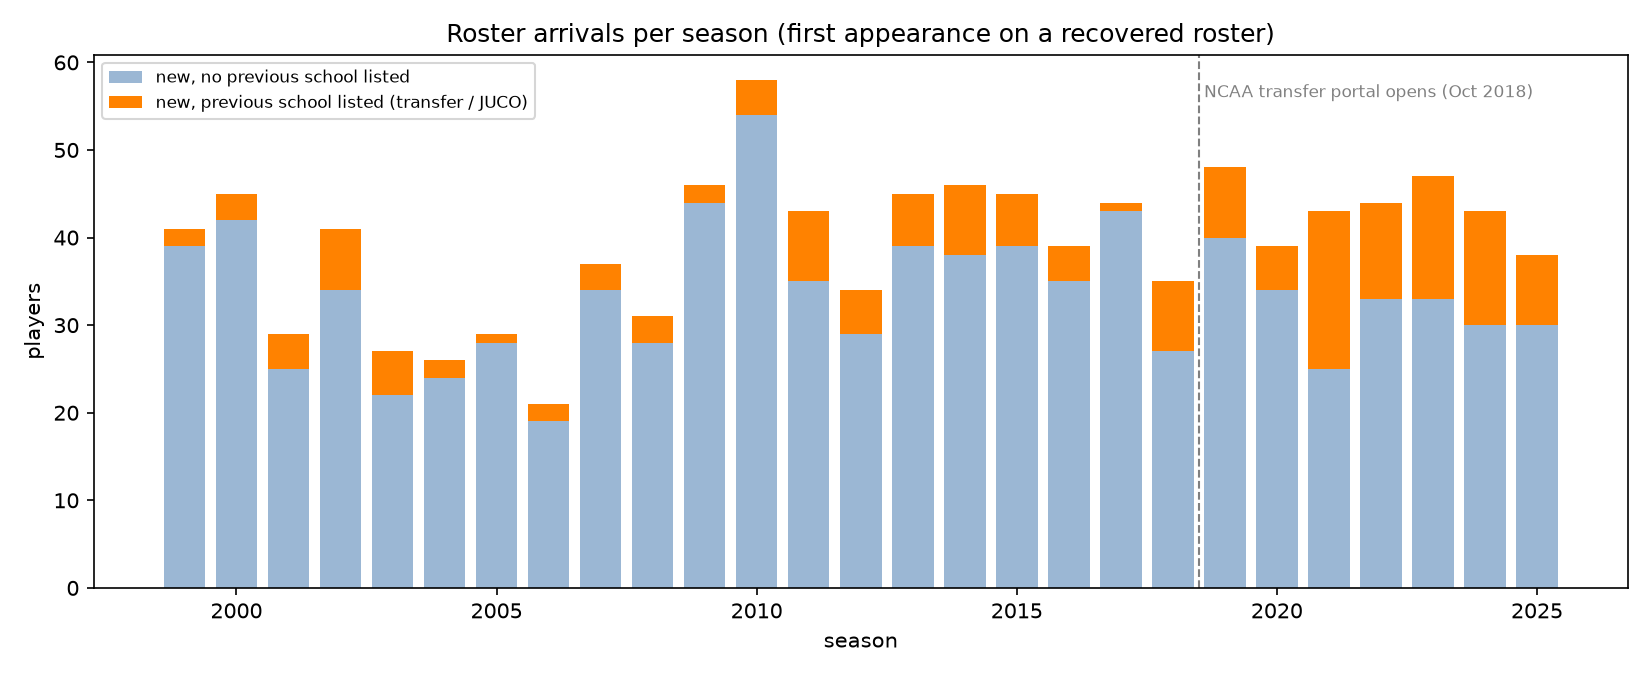
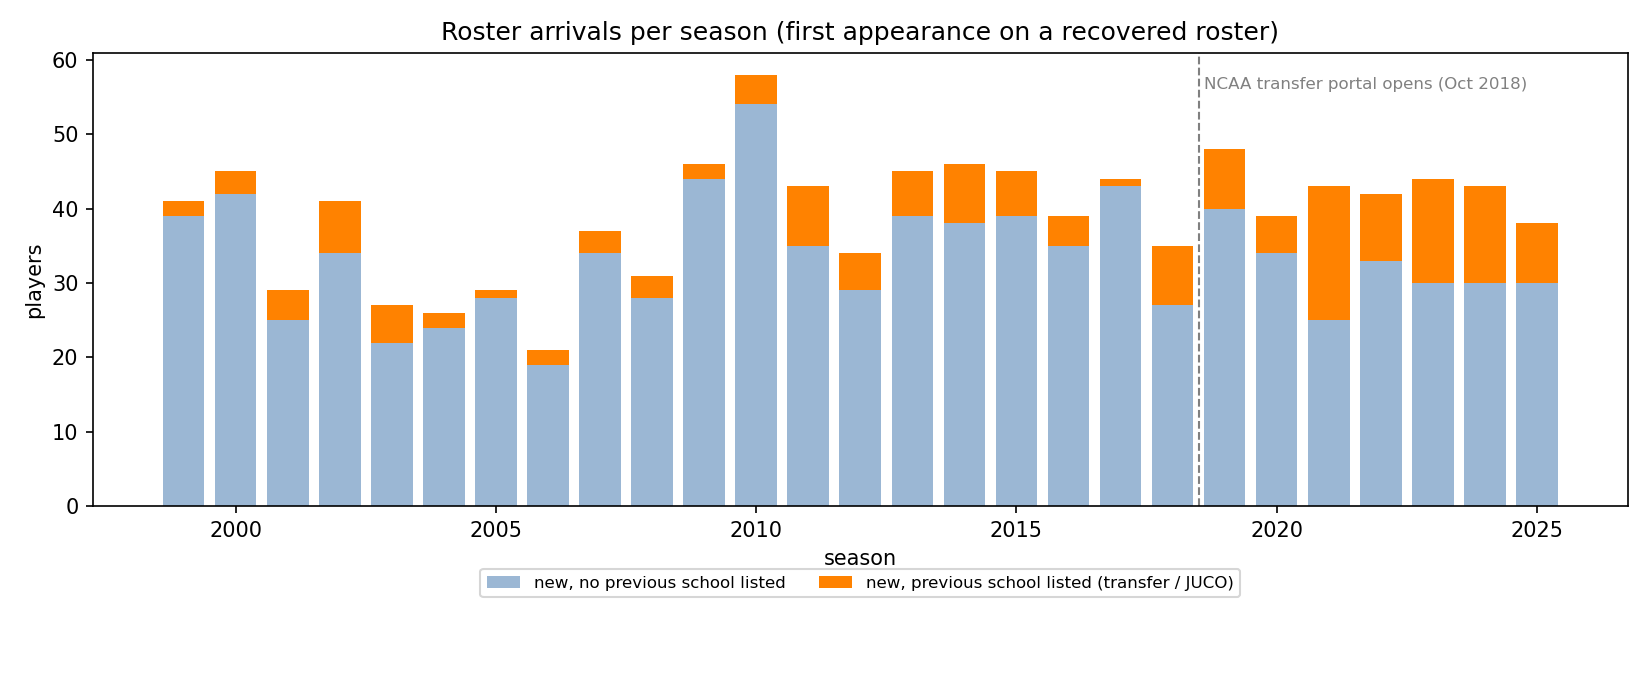
Add player identity validation and improve roster analysis reports

diff --git a/analysis/report.py b/analysis/report.py
@@ -134,12 +134,21 @@ def plot(coverage: pd.DataFrame, transitions: pd.DataFrame) -> list[str]:
     ax.set_title("Tennessee football: players listed per archived roster, 1998-2025")
     ax.set_xlabel("season")
     ax.set_ylabel("players")
-    ax.legend(ncol=4, fontsize=8, loc="upper left")
+    ax.legend(
+    ncol=4,
+    fontsize=8,
+    loc="upper center",
+    bbox_to_anchor=(0.5, -0.12)
+    )
+
     fig.tight_layout()
+    fig.subplots_adjust(bottom=0.30)
+    
     path = FIGURES / "roster_size_by_season.png"
     fig.savefig(path, dpi=150)
     plt.close(fig)
     written.append(path)
+  
 
     t = transitions.dropna(subset=["retention_pct"])
     fig, ax = plt.subplots(figsize=(11, 4.5))
@@ -151,9 +160,15 @@ def plot(coverage: pd.DataFrame, transitions: pd.DataFrame) -> list[str]:
     ax.set_title("Year-over-year retention: % of last season's roster listed again")
     ax.set_xlabel("season")
     ax.set_ylabel("% retained")
-    ax.legend(ncol=3, fontsize=8, loc="lower left")
+    ax.legend(
+    ncol=3,
+    fontsize=8,
+    loc="upper center",
+    bbox_to_anchor=(0.5, -0.12)
+)
     fig.tight_layout()
     path = FIGURES / "retention_by_season.png"
+    fig.subplots_adjust(bottom=0.25)
     fig.savefig(path, dpi=150)
     plt.close(fig)
     written.append(path)
@@ -168,8 +183,16 @@ def plot(coverage: pd.DataFrame, transitions: pd.DataFrame) -> list[str]:
     ax.set_title("Roster arrivals per season (first appearance on a recovered roster)")
     ax.set_xlabel("season")
     ax.set_ylabel("players")
-    ax.legend(fontsize=8, loc="upper left")
+    ax.legend(
+    ncol=2,
+    fontsize=8,
+    loc="upper center",
+    bbox_to_anchor=(0.5, -0.12)
+    )
     fig.tight_layout()
+    fig.subplots_adjust(bottom=0.25)
+    fig.savefig(path, dpi=150)
+    
     path = FIGURES / "arrivals_by_season.png"
     fig.savefig(path, dpi=150)
     plt.close(fig)

diff --git a/analysis/validation.py b/analysis/validation.py
@@ -1,0 +1,36 @@
+
+"""Summarize player identity matching decisions for VolLineage."""
+
+from pathlib import Path
+import pandas as pd
+
+ROOT = Path(__file__).resolve().parents[1]
+REVIEW_FILE = ROOT / "data/processed/review_queue.csv"
+OUTPUT_DIR = ROOT / "reports"
+
+def main():
+    df = pd.read_csv(REVIEW_FILE)
+
+    print("\n=== Player Identity Validation ===")
+    print(f"Total candidate pairs: {len(df)}")
+
+    print("\nDecisions:")
+    print(df["decision"].value_counts().to_string())
+
+    uncertain = df[
+        df["decision"].isin([
+            "review",
+            "review_conflicting_fields"
+        ])
+    ].copy()
+
+    print(f"\nPairs requiring manual review: {len(uncertain)}")
+
+    OUTPUT_DIR.mkdir(parents=True, exist_ok=True)
+    output = OUTPUT_DIR / "uncertain_player_matches.csv"
+    uncertain.to_csv(output, index=False)
+
+    print(f"\nSaved: {output}")
+
+if __name__ == "__main__":
+    main()

diff --git a/pipeline/load.py b/pipeline/load.py
@@ -271,7 +271,12 @@ def main() -> None:
     df["jersey_number"] = df.jersey_number.astype("Int64")
     result = build(df)
     pairs = result["pairs"]
-    pairs.sort_values(["decision", "score"], ascending=[True, False]).to_csv(REVIEW_QUEUE, index=False)
+    if {"decision", "score"}.issubset(pairs.columns):
+        pairs = pairs.sort_values(
+        ["decision", "score"],
+        ascending=[True, False]
+    )
+    pairs.to_csv(REVIEW_QUEUE, index=False)
 
     c = result["counts"]
     print(f"skipped {result['qa_rows_skipped']} QA-flagged rows")
